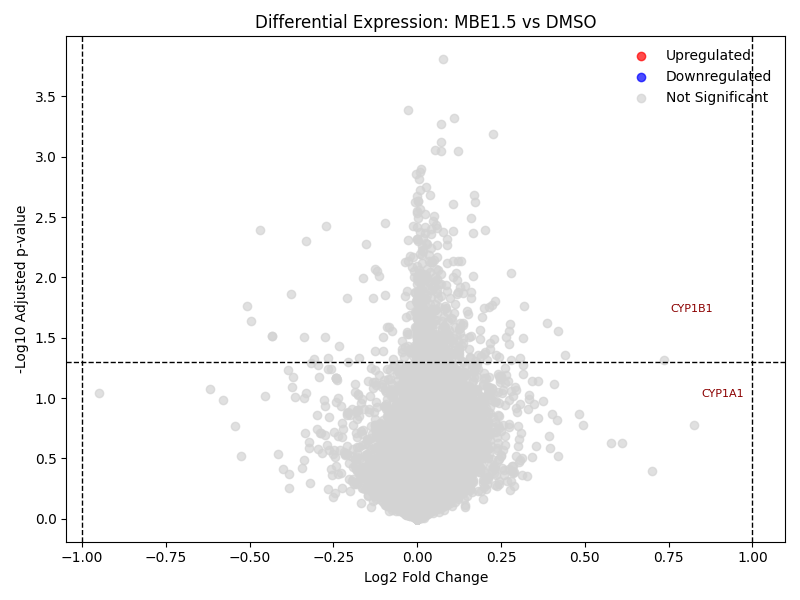
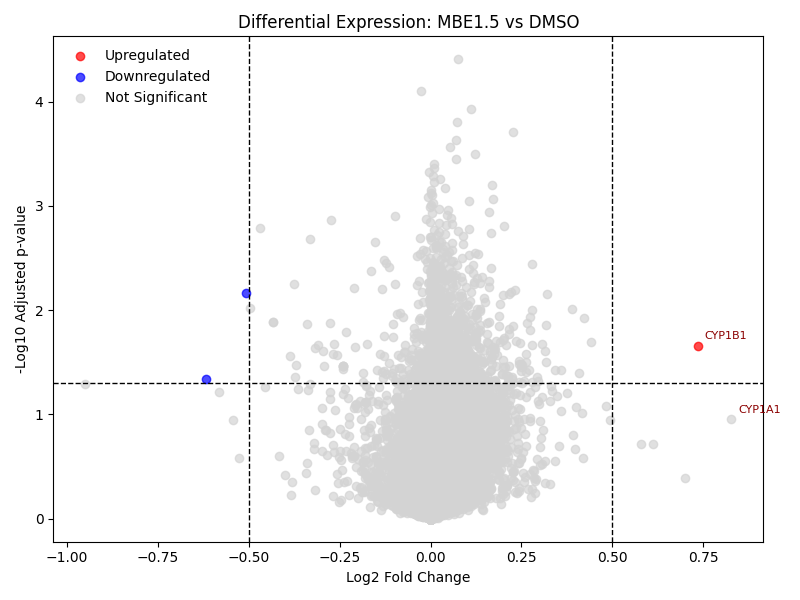
Update volcano plot to reflect new threshhold

diff --git a/src/stats_and_DE.py b/src/stats_and_DE.py
@@ -67,10 +67,11 @@ de_results = pd.DataFrame(
 de_results['adj_pval'] = (de_results['pval'].rank(method='min') / len(de_results))
 
 # Create significance column
-log2FC_thresh = 1
+log2FC_thresh = 0.5
 padj_thresh = 0.05
 
 de_results["significance"] = "Not Significant"
+
 
 de_results.loc[
     (de_results["log2FC"] >= log2FC_thresh) & 
@@ -113,7 +114,7 @@ for category, color in colors.items():
     subset = de_results[de_results['significance'] == category]
     plt.scatter(
         subset['log2FC'],
-        -np.log10(subset['pval']),
+        -np.log10(subset['adj_pval']),
         c=color,
         label=category,
         alpha=0.7
@@ -135,5 +136,5 @@ plt.ylabel('-Log10 Adjusted p-value')
 plt.title('Differential Expression: MBE1.5 vs DMSO')
 plt.legend(frameon=False)
 plt.tight_layout()
-plt.savefig(fig_dir/'volcano_plot.png')
-plt.show()
+plt.savefig(fig_dir/"volcano_plot.png")
+plt.close()